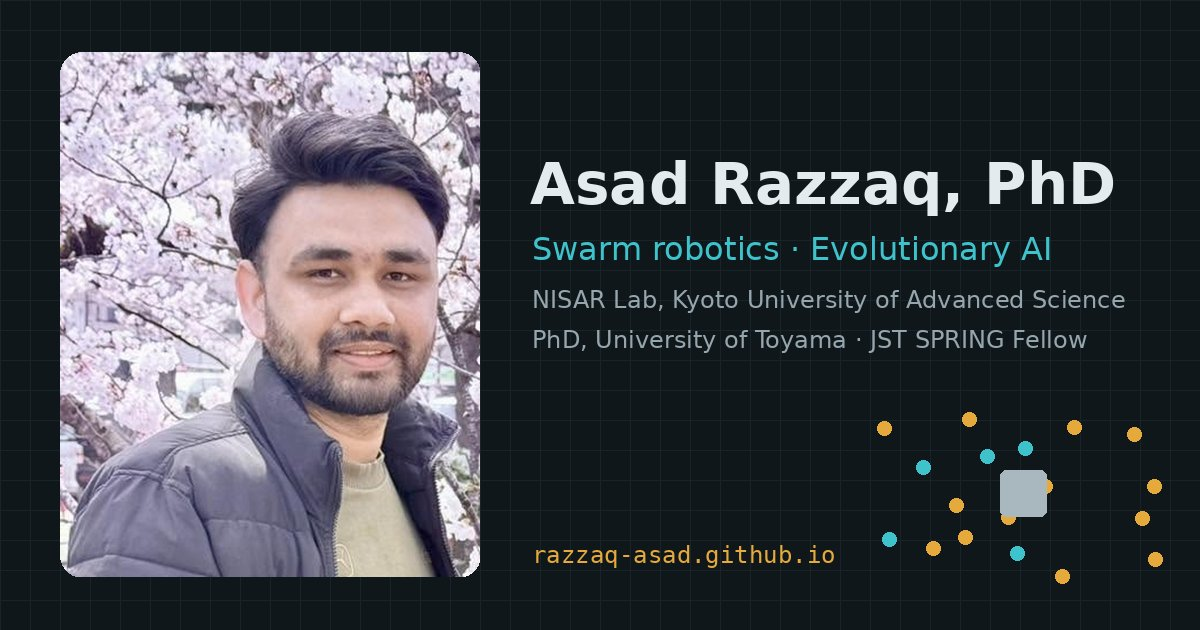
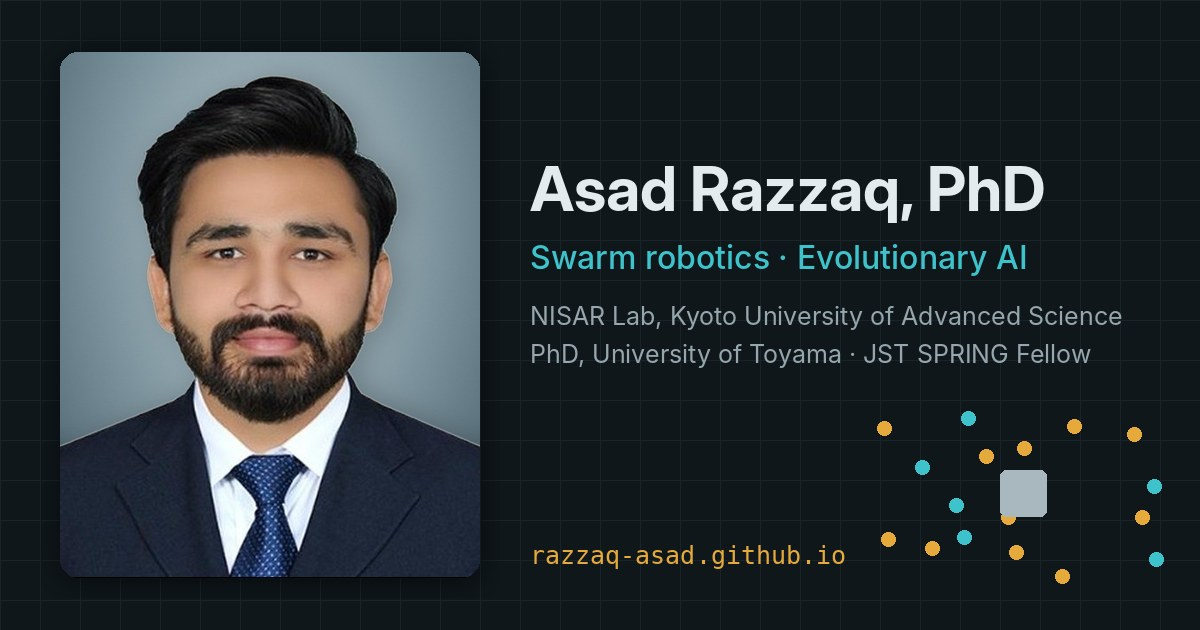
Faster home page load; new share image

diff --git a/assets/swarm.js b/assets/swarm.js
@@ -204,8 +204,18 @@
     if ("IntersectionObserver" in window) new IntersectionObserver((es) => es.forEach((e) => (L.vis = e.isIntersecting))).observe(cv);
     draw(cv, L.w, opt);
   }
-  ambient($("hero-arena"), "warehouse", { s: 4, c: 250, k: 4, p: 0.85 }, 2, { sensors: true, labels: false, battery: false, spf: 3 });
-  ambient($("teaser"), "warehouse", { s: 4, c: 250, k: 4, p: 0.85 }, 5, { sensors: true, labels: true, battery: true, spf: 2 });
+  // Build the ambient swarms only when their canvas is on screen and the browser is idle,
+  // so the page becomes interactive first (faster load on phones).
+  const idle = window.requestIdleCallback ? (f) => requestIdleCallback(f, { timeout: 600 }) : (f) => setTimeout(f, 200);
+  function lazyAmbient(cv, ...args) {
+    if (!cv) return;
+    const go = () => idle(() => ambient(cv, ...args));
+    if (!("IntersectionObserver" in window)) return go();
+    const io = new IntersectionObserver((es) => { if (es.some((e) => e.isIntersecting)) { io.disconnect(); go(); } }, { rootMargin: "200px" });
+    io.observe(cv);
+  }
+  lazyAmbient($("hero-arena"), "warehouse", { s: 4, c: 250, k: 4, p: 0.85 }, 2, { sensors: true, labels: false, battery: false, spf: 3 });
+  lazyAmbient($("teaser"), "warehouse", { s: 4, c: 250, k: 4, p: 0.85 }, 5, { sensors: true, labels: true, battery: true, spf: 2 });
   addEventListener("resize", () => loops.forEach((L) => draw(L.cv, L.w, L.opt)));
 
   /* ---------- Swarm Lab ---------- */
